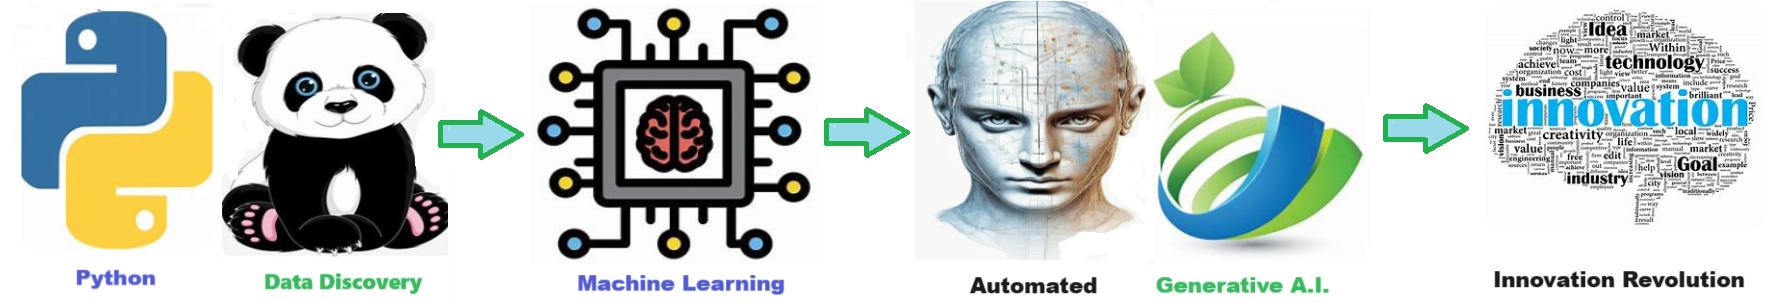
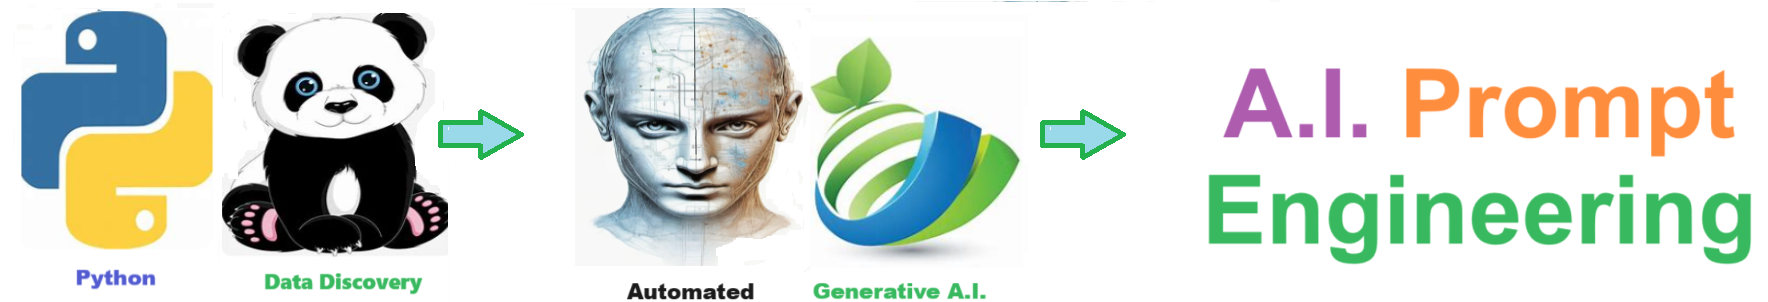
Automated 2024-05-21 commit

diff --git a/readme.md b/readme.md
@@ -1,35 +1,67 @@
 
-# Ai Prompt Generator - Produce high quality prompts to get the most out of AI.
+![Image image_filename](solution_sign.png)
 
-![Code Logo](code.png)
-## Description
-
-Welcome to the solution **Ai Prompt Generator** - an example for your projects
-
+# A.I. Prompt Generator - Produce high quality prompts to get the most out of AI.
 Produce high quality prompts to get the most out of AI.
+
+![Image image_filename](code.png)
+
+## AI prompt engineering
+
+**AI prompt engineering** involves designing and refining inputs (prompts) given to an AI model to generate the most relevant and accurate responses. This practice is crucial because well-crafted prompts can significantly enhance the performance of AI systems, ensuring they understand the context and deliver precise, useful outputs. Effective prompt engineering is vital for leveraging AI capabilities in various applications, from customer support to content creation, thereby improving efficiency and user experience.
+
+**AI prompt engineering** is utilized by a wide range of professionals, including writers, marketers, developers, and educators, to enhance creativity, productivity, and efficiency in their respective fields. It benefits almost everyone by automating repetitive tasks, providing instant insights, and generating high-quality content, which saves time and allows individuals to focus on more complex and value-added activities. This broad applicability helps improve workflows, support decision-making, and drive innovation across various industries.
+
+
+ ## A.I Prompt Elements 
+ 1. **Clarity and Specificity** - Clearly define the task or question you want the AI to address. Avoid ambiguous language to ensure the AI understands your intent. 
+  2. **Context** - Provide enough background information or context to help the AI generate relevant and accurate responses. 
+  3. **Conciseness** - Keep the prompt as brief as possible while including all necessary details. Long, complex prompts can lead to confusion. 
+  4. **Examples** - Include examples if applicable to illustrate the desired outcome or format. This helps guide the AI's response. 
+  5. **Constraints and Guidelines** - Specify any constraints or guidelines the AI should follow, such as word limits, tone, or format. 
+  6. **Open-Ended vs. Close-Ended** - Decide whether you need an open-ended response (e.g., creative writing) or a close-ended one (e.g., specific answer) and structure the prompt accordingly. 
+  7. **Relevance** - Ensure the prompt is directly related to the task at hand and avoid irrelevant information that can distract the AI. 
+  8. **Iteration and Testing** - Test and refine the prompt through iterations to achieve the best possible results. Modify based on the AI's responses to improve clarity and effectiveness. 
+ <br>
+
+![Image image_filename](sample.png)
+
+## Getting Started
+To get started with the **A.I. Prompt Generator** solution repository, follow these steps:
+1. Clone the repository to your local machine.
+2. Install the required dependencies listed at the top of the notebook.
+3. Explore the example code provided in the repository and experiment.
+4. Run the notebook and make it your own - **EASY !**
     
-## Features
+## Solution Features
 - Easy to understand and use  
 - Easily Configurable 
 - Quickly start your project with pre-built templates
 - Its Fast and Automated
-    
+
 ## Notebook Features
-- Self Documenting 
-- Self Testing 
-- Easily Configurable
-- Includes Talking Code - The code explains itself
-- Self Logging 
-- Self Debugging 
-- Low Code - or - No Code
-- Educational 
+- **Self Documenting** - Automatically identifes major steps in notebook 
+- **Self Testing** - Unit Testing for each function
+- **Easily Configurable** - Easily modify with **config.INI** - keyname value pairs
+- **Includes Talking Code** - The code explains itself 
+- **Self Logging** - Enhanced python standard logging   
+- **Self Debugging** - Enhanced python standard debugging
+- **Low Code** - or - No Code  - Most solutions are under 50 lines of code
+- **Educational** - Includes educational dialogue and background material
+- **Secure** - All the sample solutions are secure and use synthetic data, ensuring they contain no sensitive data or information.
     
-## Getting Started
-To get started with the **Ai Prompt Generator** solution, follow these steps:
-1. Clone the repository to your local machine.
-2. Install the required dependencies listed at the top of the notebook.
-3. Explore the example code provided in the repository and experiment.
-4. Run the notebook and your find your most Critical Data - EASY !
+## Deliverables or Figures
+ ![additional_image](ai_prompt_generator.png)  <br>![additional_image](Prompt_engineering.png)  <br>
     
-![Code Logo](developer.png)
+
+## Github    
+## https://github.com/JoeEberle/ 
+
+## Email 
+## josepheberle@outlook.com 
+
+    
+![Developer](developer.png)
+
+![Brand](brand.png)
     

diff --git a/solution_list.md b/solution_list.md
@@ -1,0 +1,10 @@
+## A.I Prompt Elements 
+ 1. **Clarity and Specificity** - Clearly define the task or question you want the AI to address. Avoid ambiguous language to ensure the AI understands your intent. 
+  2. **Context** - Provide enough background information or context to help the AI generate relevant and accurate responses. 
+  3. **Conciseness** - Keep the prompt as brief as possible while including all necessary details. Long, complex prompts can lead to confusion. 
+  4. **Examples** - Include examples if applicable to illustrate the desired outcome or format. This helps guide the AI's response. 
+  5. **Constraints and Guidelines** - Specify any constraints or guidelines the AI should follow, such as word limits, tone, or format. 
+  6. **Open-Ended vs. Close-Ended** - Decide whether you need an open-ended response (e.g., creative writing) or a close-ended one (e.g., specific answer) and structure the prompt accordingly. 
+  7. **Relevance** - Ensure the prompt is directly related to the task at hand and avoid irrelevant information that can distract the AI. 
+  8. **Iteration and Testing** - Test and refine the prompt through iterations to achieve the best possible results. Modify based on the AI's responses to improve clarity and effectiveness. 
+ 

diff --git a/solution_description.md b/solution_description.md
@@ -1,0 +1,7 @@
+
+## AI prompt engineering
+
+**AI prompt engineering** involves designing and refining inputs (prompts) given to an AI model to generate the most relevant and accurate responses. This practice is crucial because well-crafted prompts can significantly enhance the performance of AI systems, ensuring they understand the context and deliver precise, useful outputs. Effective prompt engineering is vital for leveraging AI capabilities in various applications, from customer support to content creation, thereby improving efficiency and user experience.
+
+**AI prompt engineering** is utilized by a wide range of professionals, including writers, marketers, developers, and educators, to enhance creativity, productivity, and efficiency in their respective fields. It benefits almost everyone by automating repetitive tasks, providing instant insights, and generating high-quality content, which saves time and allows individuals to focus on more complex and value-added activities. This broad applicability helps improve workflows, support decision-making, and drive innovation across various industries.
+
